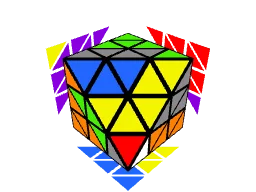
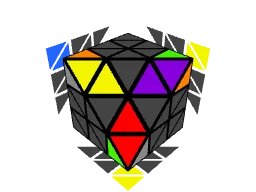
Initial OLP setup

Changed region(s): [[0.1562, 0.125, 0.8438, 1.0]]

diff --git a/src/scripts/puzzle-viewer.ts b/src/scripts/puzzle-viewer.ts
@@ -38,6 +38,7 @@ function activate(host: HTMLElement): void {
 	const alg = host.dataset.alg ?? '';
 	const setupAlg = host.dataset.setupAlg;
 	const cameraLongitude = host.dataset.cameraLongitude;
+	const stickeringMask = host.dataset.stickeringMask;
 
 	void loadTwisty()
 		.then(() => {
@@ -47,8 +48,9 @@ function activate(host: HTMLElement): void {
 			const player = document.createElement('twisty-player');
 			player.setAttribute('puzzle', puzzle);
 			player.setAttribute('alg', alg);
-			if (setupAlg) player.setAttribute('experimental-setup-alg', setupAlg);
-			if (cameraLongitude) player.setAttribute('camera-longitude', cameraLongitude);
+		if (setupAlg) player.setAttribute('experimental-setup-alg', setupAlg);
+		if (cameraLongitude) player.setAttribute('camera-longitude', cameraLongitude);
+		if (stickeringMask) player.setAttribute('experimental-stickering-mask-orbits', stickeringMask);
 			player.setAttribute('hint-facelets', 'none');
 			player.setAttribute('background', 'none');
 			player.style.width = '256px';

diff --git a/src/content.config.ts b/src/content.config.ts
@@ -70,6 +70,11 @@ const algs = defineCollection({
 		// Render thumbnails from a raised top-down camera angle (shows the top
 		// face plus all sides) instead of the default flat face-on view.
 		top_down: z.boolean().optional(),
+		// Serialized cubing.js stickering mask (experimental-stickering-mask-orbits,
+		// e.g. "C4RNER:-I-I-I,...") applied to every case of the file — interactive
+		// player and thumbnails. Hides everything but the recognition stickers
+		// ("-" = regular, "D" = dim, "I" = ignored). Used by olp.yaml.
+		stickering_mask: z.string().optional(),
 		cases: z.array(algCase),
 	}),
 });

diff --git a/AGENTS.md b/AGENTS.md
@@ -3,8 +3,8 @@
 Bencisco FTO — method tutorial + alg database. Astro 7 + Starlight, Tailwind CSS v4 (`@tailwindcss/vite`), static output, no backend.
 
 - `src/content/docs/` — MDX pages (Starlight content root). Sidebar is configured manually in `astro.config.mjs`. Advanced pages get a sidebar badge via frontmatter; advanced subsections use `<details>`.
-- `src/data/*.yaml` — alg databases, zod-validated via the `algs` collection in `src/content.config.ts`. Each case: `alg` (CIF community notation, with brackets/slices resolved — drives the applet; equals the showcase alg when the showcase has no rotation), `scramble` (inverse of `alg`, precomputed for inspection/correction; used by the renderer as the twisty-player setup-alg instead of computing the inverse at runtime), `showcase_alg` (community notation — the written alg shown to the user, bold), `showcase_label` (optional colored prefix for the showcase alg, e.g. `"EIF"` / `"CIF -> EIF"`), `eif_alg` (Edge-in-Front notation, non-bold with `(EIF)` colored prefix; `eif_label` overrides the label text), `name` (prominent label), `family` (small secondary label). cubing.js names FTO faces differently, so the community→Twizzle face map (π: F→BL, B→R, L→B, R→L, BL→BR, BR→F) is applied to `alg` at render time by `cifToTwizzle()` in `src/scripts/fto-notation.ts` — never stored in the data. `setup_prefix`/`preset`/suffix fields are cubing-frame and pass through untranslated. Optional per-file `setup_prefix` (e.g. `"LBLv"` on last-layer files) is prepended to each case's setup-alg so yellow is on top; a case-level `preset` field overrides it for individual cases. Optional per-file `top_down: true` (1ll3t, olp, tcp) renders thumbnails from a raised top-down camera angle instead of the default flat face-on view. In `1ll3t.yaml`, showcase algs use CIF community notation (`S`/`H` = sledge/hedge, `{X,Y}` = reorient with X on top and Y in front, `[U]` = pre-AUF, `Rs`/`Fs` = slice suffixes); the `alg` field holds the same alg resolved to plain CIF moves (no brackets, `S`/`H`/slices expanded, wide moves as `Xw`). `tcp.yaml` was converted with the same pipeline and validated 1:1 against the 1ll3t T-family states (see `tx/tcp-conversion.md`); extra alg variants are shown via `showcase_alg1`, `showcase_alg2`, ...
-- `src/components/PuzzleViewer.astro` — thumbnail-first FTO viewer; `cubing/twisty` is dynamically imported on click (never in the initial bundle). Use direct embed (no `thumbnail` prop) only on low-density pages. `hintFacelets` prop (also on `AlgTable`/`CaseCard`) keeps twisty's hint facelets on instead of forcing `hint-facelets="none"` (used on the TCP page).
+- `src/data/*.yaml` — alg databases, zod-validated via the `algs` collection in `src/content.config.ts`. Each case: `alg` (CIF community notation, with brackets/slices resolved — drives the applet; equals the showcase alg when the showcase has no rotation), `scramble` (inverse of `alg`, precomputed for inspection/correction; used by the renderer as the twisty-player setup-alg instead of computing the inverse at runtime), `showcase_alg` (community notation — the written alg shown to the user, bold), `showcase_label` (optional colored prefix for the showcase alg, e.g. `"EIF"` / `"CIF -> EIF"`), `eif_alg` (Edge-in-Front notation, non-bold with `(EIF)` colored prefix; `eif_label` overrides the label text), `name` (prominent label), `family` (small secondary label). cubing.js names FTO faces differently, so the community→Twizzle face map (π: F→BL, B→R, L→B, R→L, BL→BR, BR→F) is applied to `alg` at render time by `cifToTwizzle()` in `src/scripts/fto-notation.ts` — never stored in the data. `setup_prefix`/`preset`/suffix fields are cubing-frame and pass through untranslated. Optional per-file `setup_prefix` (e.g. `"LBLv"` on last-layer files) is prepended to each case's setup-alg so yellow is on top; a case-level `preset` field overrides it for individual cases. Optional per-file `top_down: true` (1ll3t, olp, tcp) renders thumbnails from a raised top-down camera angle instead of the default flat face-on view. In `1ll3t.yaml`, showcase algs use CIF community notation (`S`/`H` = sledge/hedge, `{X,Y}` = reorient with X on top and Y in front, `[U]` = pre-AUF, `Rs`/`Fs` = slice suffixes); the `alg` field holds the same alg resolved to plain CIF moves (no brackets, `S`/`H`/slices expanded, wide moves as `Xw`). `tcp.yaml` was converted with the same pipeline and validated 1:1 against the 1ll3t T-family states (see `tx/tcp-conversion.md`); extra alg variants are shown via `showcase_alg1`, `showcase_alg2`, ... `olp.yaml` was converted from plain CIF (no brackets; `H`/`S`/`S'` expanded, `(Uv)` rotations kept in `alg` but stripped from `scramble` — see `tx/olp-conversion.md`); each case pairs an Even and an Odd solution via `showcase_alg`/`showcase_alg1` with `showcase_label`s.
+- `src/components/PuzzleViewer.astro` — thumbnail-first FTO viewer; `cubing/twisty` is dynamically imported on click (never in the initial bundle). Use direct embed (no `thumbnail` prop) only on low-density pages. `hintFacelets` prop (also on `AlgTable`/`CaseCard`) keeps twisty's hint facelets on instead of forcing `hint-facelets="none"` (used on the TCP page). `stickeringMask` prop passes a cubing.js stickering mask (`experimental-stickering-mask-orbits`) through to the player; normally set file-level via `stickering_mask` in the YAML (used by `olp.yaml`, which hides everything but the OLP recognition stickers) and honored by the thumbnail renderer.
 - `public/thumbnails/<case-id>.webp` — per-case previews (unsolved case state), generated by `npm run imgs` (screenshots `/thumbnail-renderer/` via playwright-core + system Chrome; falls back to `placeholder.svg` when missing). Re-run after editing YAML data.
 
 ## Development
